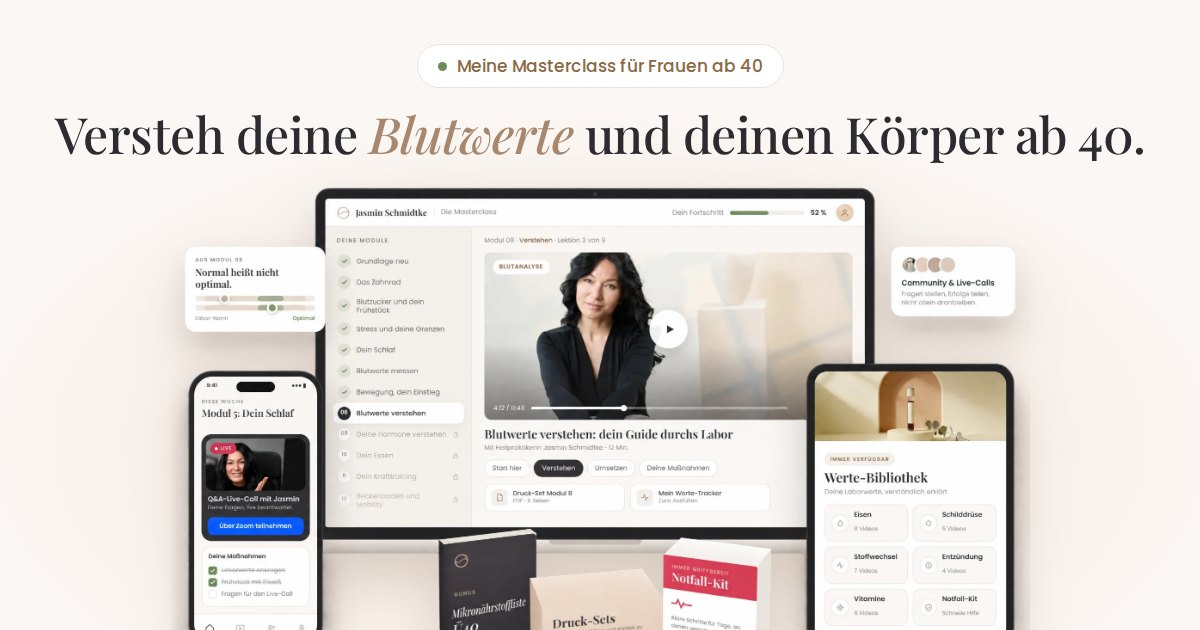
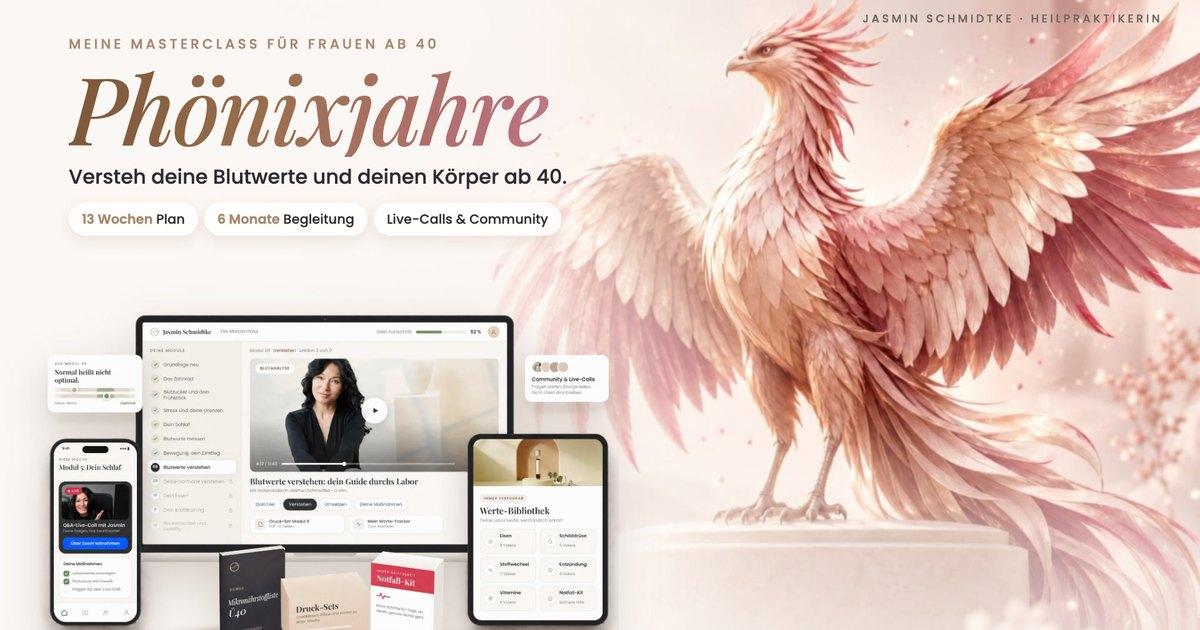
Add files via upload

diff --git a/masterclass.html b/masterclass.html
@@ -15,8 +15,8 @@
 
   <meta charset="UTF-8" />
   <meta name="viewport" content="width=device-width, initial-scale=1.0" />
-  <title>Meine Masterclass für Frauen ab 40 | Jasmin Schmidtke</title>
-  <meta name="description" content="Die Masterclass von Heilpraktikerin Jasmin Schmidtke: Versteh deine Blutwerte und deinen Körper ab 40. Mit der Zahnrad-Methode, 13 Wochen Plan und 6 Monaten Begleitung. Frühbucher-Preis 397 € bis Freitag, 23. Oktober." />
+  <title>Phönixjahre: Meine Masterclass für Frauen ab 40 | Jasmin Schmidtke</title>
+  <meta name="description" content="Phönixjahre, die Masterclass von Heilpraktikerin Jasmin Schmidtke: Versteh deine Blutwerte und deinen Körper ab 40. Mit der Zahnrad-Methode, 13 Wochen Plan und 6 Monaten Begleitung. Frühbucher-Preis 397 € bis Freitag, 23. Oktober." />
   <meta name="robots" content="noindex, follow" />
   <meta name="author" content="Jasmin Schmidtke" />
 
@@ -27,13 +27,13 @@
   <meta name="theme-color" content="#D7354F" />
 
   <meta property="og:type" content="website" />
-  <meta property="og:title" content="Versteh deine Blutwerte und deinen Körper ab 40" />
-  <meta property="og:description" content="Meine Masterclass für Frauen ab 40: die Zahnrad-Methode mit Blutwerte-Kompass, 13 Wochen Plan und 6 Monate Begleitung. Frühbucher-Preis 397 € bis Freitag, 23. Oktober, 23:59 Uhr." />
+  <meta property="og:title" content="Phönixjahre: Versteh deine Blutwerte und deinen Körper ab 40" />
+  <meta property="og:description" content="Phönixjahre, meine Masterclass für Frauen ab 40: die Zahnrad-Methode mit Blutwerte-Kompass, 13 Wochen Plan und 6 Monate Begleitung. Frühbucher-Preis 397 € bis Freitag, 23. Oktober, 23:59 Uhr." />
   <meta property="og:url" content="https://www.jasminschmidtke.de/masterclass" />
   <meta property="og:image" content="https://www.jasminschmidtke.de/og-masterclass.jpg" />
   <meta property="og:image:width" content="1200" />
   <meta property="og:image:height" content="630" />
-  <meta property="og:image:alt" content="Einblick in die Masterclass von Jasmin Schmidtke" />
+  <meta property="og:image:alt" content="Phönixjahre, die Masterclass von Jasmin Schmidtke" />
   <meta name="twitter:card" content="summary_large_image" />
   <meta property="og:locale" content="de_DE" />
 
@@ -52,7 +52,7 @@
   <link rel="preconnect" href="https://fonts.googleapis.com" />
   <link rel="preconnect" href="https://fonts.gstatic.com" crossorigin />
   <link href="https://fonts.googleapis.com/css2?family=Playfair+Display:ital,wght@0,500;0,600;1,500&family=Poppins:wght@300;400;500;600&display=swap" rel="stylesheet" />
-  <link rel="preload" as="image" href="masterclass-mockup-v4.webp" />
+  <link rel="preload" as="image" href="phoenixjahre-1600.webp" imagesrcset="phoenixjahre-960.webp 960w, phoenixjahre-1600.webp 1600w" imagesizes="(max-width: 700px) 92vw, 520px" />
 
   <style>
     :root {
@@ -1164,6 +1164,101 @@
       .of-sum del { font-size: 21px; }
     }
 
+
+    /* ═══════ Hero „Angebot zuerst“ (18.10.2026, nach Vorbild fullstack) ═══════ */
+    .topbar b { font-weight: 700; }
+    .topbar s { opacity: .8; }
+    .ohero { background: linear-gradient(165deg, #2D2B30, #3B3339); color: #fff; padding: 0 0 76px; }
+    .ohero .bg { position: absolute; inset: 0; z-index: 0; }
+    .ohero .bg img { width: 100%; height: 100%; object-fit: cover; opacity: .12; }
+    .ohero .logo { max-width: var(--wrap); margin: 0 auto; justify-content: flex-start; padding: 22px 28px 20px; }
+    .ohero .logo span { color: #fff; }
+    .oh-top { display: grid; grid-template-columns: 1.2fr .8fr; gap: 48px; align-items: center; padding: 14px 0 46px; border-bottom: 1px solid rgba(255,255,255,.1); }
+    body.after .oh-top { grid-template-columns: 1fr; }
+    .oh-pill { display: inline-flex; align-items: center; gap: 10px; font-size: 13px; font-weight: 600; letter-spacing: .13em; text-transform: uppercase; color: var(--sand); margin-bottom: 18px; }
+    .oh-pill i { width: 9px; height: 9px; border-radius: 50%; background: var(--sand); box-shadow: 0 0 0 5px rgba(231,203,180,.18); }
+    .ohero h1 { color: #fff; font-size: clamp(40px, 4.4vw, 62px); line-height: 1.06; letter-spacing: -.015em; margin-bottom: 20px; text-wrap: balance; }
+    .ohero h1 .ac { display: block; color: var(--sand); font-style: italic; font-size: 1.08em; margin-top: 4px; }
+    .oh-sub { font-size: 18px; line-height: 1.6; color: rgba(255,255,255,.82); max-width: 560px; }
+    .oh-sub strong { color: #fff; }
+    .oh-cd { background: rgba(255,255,255,.04); border: 1px solid rgba(231,203,180,.3); border-radius: 22px; padding: 24px 26px 22px; }
+    .oh-lbl { display: block; font-size: 13px; font-weight: 600; letter-spacing: .13em; text-transform: uppercase; color: var(--sand); margin-bottom: 14px; }
+    .oh-cd .cd.flipcd { display: grid; grid-template-columns: repeat(4, 1fr); gap: 10px; margin: 0; }
+    .oh-cd .flip { height: 66px; font-size: 36px; line-height: 66px; box-shadow: 0 10px 22px rgba(0,0,0,.3); }
+    .oh-cd .flip i { height: 66px; }
+    .oh-cd .flip .f-top, .oh-cd .flip .f-ftop { background: #4C464C; }
+    .oh-cd .flip .f-bot, .oh-cd .flip .f-fbot { background: #403B41; }
+    .oh-cd .flipcd small { color: rgba(255,255,255,.6); }
+    .oh-cd p { font-size: 15px; color: rgba(255,255,255,.8); margin-top: 16px; }
+    .oh-cd p strong { color: var(--sand); }
+    .oh-grid { display: grid; grid-template-columns: 1.08fr .92fr; gap: 28px; margin-top: 44px; align-items: start; }
+    .oh-prod { background: rgba(255,255,255,.04); border: 1px solid rgba(255,255,255,.1); border-radius: 24px; padding: 30px 30px 28px; }
+    .oh-t1 { display: block; font-family: 'Playfair Display', Georgia, serif; font-style: italic; font-weight: 500; font-size: 30px; line-height: 1.2; color: var(--sand); margin-bottom: 8px; }
+    .oh-t2 { font-family: 'Playfair Display', Georgia, serif; font-weight: 500; font-size: 27px; line-height: 1.28; color: #fff; text-wrap: balance; }
+    .oh-vis { position: relative; margin-top: 24px; border-radius: 18px; background: radial-gradient(ellipse 72% 62% at 50% 55%, #F2E2D4, #F8F2EC 72%); padding: 34px 18px 48px; }
+    .oh-vis img { width: 100%; height: auto; filter: drop-shadow(0 20px 24px rgba(80,55,40,.16)); }
+    .oh-vis .lv-tag { left: 14px; bottom: 12px; font-size: 11.5px; color: var(--muted); font-weight: 500; }
+    .oh-save { position: absolute; top: -14px; right: 18px; background: var(--sand); color: var(--dark); font-family: 'Playfair Display', Georgia, serif; font-weight: 600; font-size: 21px; line-height: 1; border-radius: 40px; padding: 11px 18px; box-shadow: 0 12px 26px rgba(0,0,0,.25); transform: rotate(-3deg); }
+    .oh-price { position: relative; background: var(--paper); color: var(--ink); border-radius: 24px; padding: 40px 30px 26px; box-shadow: 0 0 0 6px rgba(231,203,180,.2), 0 30px 70px rgba(0,0,0,.35); }
+    .op-tab { position: absolute; top: 0; right: 22px; transform: translateY(-50%); background: var(--sand); color: var(--dark); font-size: 12.5px; font-weight: 600; border-radius: 10px; padding: 7px 14px; white-space: nowrap; }
+    .op-h { font-size: 30px; line-height: 1.15; margin-bottom: 4px; }
+    .op-sub { font-size: 16px; color: var(--muted); }
+    .op-row { display: flex; align-items: center; flex-wrap: wrap; gap: 8px 14px; margin: 16px 0 14px; }
+    .op-now { font-family: 'Playfair Display', Georgia, serif; font-style: italic; font-weight: 500; font-size: 58px; line-height: 1; color: var(--red); white-space: nowrap; font-variant-numeric: lining-nums; }
+    .op-now i { font-size: .42em; margin-right: 6px; }
+    body.after .op-now { color: var(--ink); font-style: normal; }
+    .op-was { display: flex; flex-direction: column; align-items: flex-start; gap: 7px; }
+    .op-was > span { font-size: 18px; color: var(--body); }
+    .op-was del { text-decoration-color: var(--red); text-decoration-thickness: 2px; }
+    .op-was b { background: var(--red); color: #fff; font-size: 12.5px; font-weight: 600; border-radius: 30px; padding: 6px 13px; white-space: nowrap; }
+    .op-for { font-size: 15px; line-height: 1.55; color: var(--body); }
+    .op-for strong { display: block; color: var(--ink); }
+    .op-sum del { font-weight: 600; color: var(--ink); text-decoration-color: var(--red); }
+    .op-chips { display: flex; flex-wrap: wrap; gap: 8px; margin: 16px 0 16px; }
+    .op-chips li { display: inline-flex; align-items: center; gap: 7px; font-size: 13.5px; font-weight: 500; color: var(--ink); background: var(--cream); border: 1px solid var(--line); border-radius: 30px; padding: 6px 13px; }
+    .op-chips svg { width: 15px; height: 15px; color: var(--accent-deep); flex: none; }
+    .op-chips .zoom-ic { width: 15px; height: 15px; margin: 0; vertical-align: 0; }
+    .op-until { text-align: center; border: 1px solid rgba(215,53,79,.3); background: rgba(215,53,79,.05); border-radius: 14px; padding: 12px 14px; margin-bottom: 18px; }
+    .op-until b { display: block; font-size: 16px; font-weight: 600; color: var(--red); }
+    .op-until span { display: block; font-size: 14px; color: var(--body); margin-top: 2px; }
+    .oh-price .btn { width: 100%; justify-content: center; text-align: center; padding: 15px 14px; }
+    .oh-price .btn .t { align-items: center; }
+    .op-trust { text-align: center; font-size: 13px; color: var(--muted); margin-top: 12px; }
+    @media (max-width: 1024px) {
+      .oh-top { grid-template-columns: 1fr; gap: 28px; }
+      .oh-cd { max-width: 520px; }
+    }
+    @media (max-width: 900px) {
+      .oh-grid { grid-template-columns: 1fr; max-width: 560px; margin: 36px auto 0; gap: 34px; }
+      .oh-top { max-width: 560px; margin: 0 auto; }
+    }
+    @media (max-width: 600px) {
+      .ohero { padding-bottom: 52px; }
+      .ohero .logo { padding: 18px 20px 16px; }
+      .ohero h1 { font-size: clamp(32px, 9.4vw, 40px); }
+      .oh-sub { font-size: 16.5px; }
+      .oh-top { padding-bottom: 34px; }
+      .oh-cd { padding: 18px 16px 16px; }
+      .oh-cd .cd.flipcd { gap: 7px; }
+      .oh-cd .flip { height: 56px; font-size: 30px; line-height: 56px; }
+      .oh-cd .flip i { height: 56px; }
+      .oh-prod { padding: 22px 16px 18px; }
+      .oh-t1 { font-size: 25px; }
+      .oh-t2 { font-size: 22px; }
+      .oh-vis { padding: 26px 10px 42px; }
+      .oh-save { font-size: 17px; padding: 9px 14px; right: 12px; }
+      .oh-price { padding: 36px 18px 22px; }
+      .op-h { font-size: 26px; }
+      .op-now { font-size: 58px; }
+      .op-tab { right: 14px; font-size: 12px; }
+      .op-chips li { font-size: 13px; }
+    }
+    @media (max-width: 380px) {
+      .op-now { font-size: 50px; }
+      .op-was b { font-size: 12.5px; }
+      .oh-price { padding-left: 14px; padding-right: 14px; }
+    }
+
     /* Hinweis, solange die CopeCart-Links fehlen (verschwindet automatisch) */
     .dev-note { position: fixed; z-index: 99; left: 12px; top: 12px; max-width: 300px; background: #FFF3CD; color: #5C4300; border: 1px solid #E5C766; border-radius: 12px; padding: 9px 13px; font-size: 12.5px; line-height: 1.45; box-shadow: 0 10px 24px rgba(0,0,0,.12); }
 
@@ -1206,57 +1301,86 @@
       .pricebox .btn .t small { font-size: 11px; }
       .price { font-size: 58px; }
     }
+
+    /* ═══ Phönixjahre (Name + Produktbild, 20.10.) ═══ */
+    .ohero h1 .ph-name { display: block; font-style: italic; font-size: 1.5em; line-height: 1.02; letter-spacing: -.01em; padding: 0 .08em .1em 0; margin-bottom: 4px; color: #EBC9AE; background: linear-gradient(95deg, #EDD0B6 0%, #E8B9A2 48%, #E59AAA 100%); -webkit-background-clip: text; background-clip: text; -webkit-text-fill-color: transparent; }
+    .ohero h1 .ph-sub { display: block; font-size: .64em; line-height: 1.18; color: #fff; }
+    .ohero h1 .ac { font-size: .64em; margin-top: 6px; }
+    .oh-vis.ph-vis { padding: 0; background: none; }
+    .ph-vis img { display: block; width: 100%; height: auto; border-radius: 16px; filter: none; box-shadow: 0 22px 44px rgba(0,0,0,.32), 0 0 0 1px rgba(255,255,255,.08); }
+    .ph-vis .oh-save { top: auto; bottom: -16px; right: 18px; }
+    .oh-price .op-h { font-style: italic; font-size: 40px; line-height: 1.08; padding-bottom: 2px; color: #8E5B3F; background: linear-gradient(95deg, #8E5B3F 0%, #B0705E 50%, #C7697D 100%); -webkit-background-clip: text; background-clip: text; -webkit-text-fill-color: transparent; }
+    .pb-name .pb-ph { display: block; font-style: italic; font-weight: 500; font-size: 1.55em; line-height: 1.1; margin-bottom: 2px; color: #EBC9AE; background: linear-gradient(95deg, #EDD0B6 0%, #E8B9A2 48%, #E59AAA 100%); -webkit-background-clip: text; background-clip: text; -webkit-text-fill-color: transparent; }
+    .pricebox.light .pb-name .pb-ph { color: #8E5B3F; background-image: linear-gradient(95deg, #8E5B3F 0%, #B0705E 50%, #C7697D 100%); }
+    @media (max-width: 700px) {
+      .ohero h1 .ph-name { font-size: 1.42em; }
+      .ph-vis img { border-radius: 12px; }
+      .ph-vis .oh-save { bottom: -14px; right: 10px; }
+      .oh-price .op-h { font-size: 34px; }
+    }
   </style>
 </head>
 <body>
 
-  <a href="#angebot" class="topbar"><span class="live-dot" aria-hidden="true"></span><span class="eb-only"><span class="lg">Frühbucher-Preis 397&nbsp;€ nur bis Freitag, 23.&nbsp;Oktober, 23:59&nbsp;Uhr</span><span class="sm">Frühbucher-Preis 397&nbsp;€ bis Fr., 23:59&nbsp;Uhr</span><span class="tb-cd" hidden></span></span><span class="after-only"><span class="lg">Meine Masterclass für Frauen ab&nbsp;40 · 13&nbsp;Wochen Plan, 6&nbsp;Monate Begleitung</span><span class="sm">Meine Masterclass für Frauen ab&nbsp;40</span></span><span class="go">Platz sichern →</span></a>
+  <a href="#angebot" class="topbar js-buy"><span class="live-dot" aria-hidden="true"></span><span class="eb-only"><span class="lg">Frühbucher-Angebot: <b>397&nbsp;€</b> statt <s>997&nbsp;€</s> · nur bis Freitag, 23:59&nbsp;Uhr</span><span class="sm"><b>397&nbsp;€</b> statt <s>997&nbsp;€</s> · bis Fr., 23:59&nbsp;Uhr</span><span class="tb-cd" hidden></span></span><span class="after-only"><span class="lg"><b>Phönixjahre</b> · Meine Masterclass für Frauen ab&nbsp;40 · 13&nbsp;Wochen Plan, 6&nbsp;Monate Begleitung</span><span class="sm"><b>Phönixjahre</b> · Masterclass für Frauen ab&nbsp;40</span></span><span class="go">Jetzt sichern →</span></a>
 
   <main>
 
-    <!-- ═══════ HERO ═══════ -->
-    <section class="hero" aria-label="Meine Masterclass für Frauen ab 40">
-      <div class="hero-bg" aria-hidden="true"><img decoding="async" src="warteliste-bg-poster.jpg" width="1280" height="720" alt="" /></div>
+    <!-- ═══════ HERO: Angebot zuerst (wie fullstack) ═══════ -->
+    <section class="hero ohero" aria-label="Phönixjahre, meine Masterclass für Frauen ab 40">
+      <div class="bg" aria-hidden="true"><img src="warteliste-bg-poster.jpg" width="1280" height="720" alt="" decoding="async" /></div>
 
       <header class="logo" aria-label="Jasmin Schmidtke">
         <svg viewBox="0 0 200 200" xmlns="http://www.w3.org/2000/svg" aria-hidden="true">
-          <circle cx="100" cy="100" r="82" fill="none" stroke="#BFA492" stroke-width="11"/>
-          <path d="M 18,100 C 45,118 65,118 100,95 C 135,72 155,72 182,100" fill="none" stroke="#BFA492" stroke-width="7" stroke-linecap="round"/>
+          <circle cx="100" cy="100" r="82" fill="none" stroke="#E7CBB4" stroke-width="11"/>
+          <path d="M 18,100 C 45,118 65,118 100,95 C 135,72 155,72 182,100" fill="none" stroke="#E7CBB4" stroke-width="7" stroke-linecap="round"/>
         </svg>
         <span><span>Jasmin</span><span>Schmidtke</span></span>
       </header>
 
       <div class="wrap">
-        <div class="hero-txt">
-          <span class="pill"><span class="dot"></span>Meine Masterclass für Frauen ab&nbsp;40</span>
-          <h1>Versteh deine <span class="ac">Blutwerte</span><br class="br-d" /> und deinen Körper ab&nbsp;40.<span class="h1-a">Mit einem Plan, der in deinen <b>Alltag</b>&nbsp;passt.</span></h1>
-          <p class="lead">Mit meiner <strong>Zahnrad&#8209;Methode</strong> gehst du 13&nbsp;Wochen lang jede Woche einen Schritt. <strong>Und 6&nbsp;Monate bin ich an deiner&nbsp;Seite.</strong></p>
-          <ul class="when" aria-label="Das Wichtigste auf einen Blick">
-            <li><svg viewBox="0 0 24 24" fill="none" stroke="currentColor" stroke-width="2" stroke-linecap="round" stroke-linejoin="round" aria-hidden="true"><rect x="2.5" y="4" width="19" height="13" rx="2"/><path d="M8 21h8M12 17v4"/><path d="m10.5 8.5 4 2-4 2z"/></svg><span><b>2&nbsp;Jahre</b> Zugang, in deinem Tempo</span></li>
-            <li><svg class="zoom-ic" viewBox="0 0 24 24" aria-hidden="true"><rect width="24" height="24" rx="6" fill="#0B5CFF"/><path d="M5.2 9.1a1.6 1.6 0 0 1 1.6-1.6h6.3a1.8 1.8 0 0 1 1.8 1.8v5.6a1.6 1.6 0 0 1-1.6 1.6H7a1.8 1.8 0 0 1-1.8-1.8z" fill="#fff"/><path d="M15.6 10.7l3.2-2.2v7l-3.2-2.2z" fill="#fff"/></svg><span><b>Live-Calls</b> alle 2&nbsp;Wochen</span></li>
-            <li><svg viewBox="0 0 24 24" fill="none" stroke="currentColor" stroke-width="2" stroke-linecap="round" stroke-linejoin="round" aria-hidden="true"><rect x="3" y="4.5" width="18" height="16.5" rx="2.5"/><path d="M16 2.5v4M8 2.5v4M3 9.5h18"/></svg><span><b>6&nbsp;Monate</b> an deiner Seite</span></li>
-          </ul>
-          <a class="btn pulse js-buy" href="#angebot"><span class="t"><b>Jetzt meinen Platz sichern</b><small class="eb-only"><s>997&nbsp;€</s> 397&nbsp;€ · nur bis Fr., 23:59&nbsp;Uhr</small><small class="after-only">997&nbsp;€ · sichere Zahlung über CopeCart</small></span><span class="arr"><svg viewBox="0 0 24 24" fill="none" stroke="currentColor" stroke-width="2.4" stroke-linecap="round" stroke-linejoin="round"><path d="M5 12h14M13 6l6 6-6 6"/></svg></span></a>
-          <p class="micro"><span class="eb-only">Ab Samstag kostet die Masterclass 997&nbsp;€.<br /></span><svg class="lk-ic" viewBox="0 0 24 24" fill="none" stroke="currentColor" stroke-width="2" stroke-linecap="round" stroke-linejoin="round" aria-hidden="true"><rect x="4" y="10.5" width="16" height="11" rx="2.5"/><path d="M8 10.5V7a4 4 0 0 1 8 0v3.5"/></svg>Sichere Zahlung über CopeCart<span class="raten-txt" hidden></span></p>
+        <div class="oh-top">
+          <div>
+            <span class="oh-pill"><i aria-hidden="true"></i><span class="eb-only">Einmaliges Frühbucher-Angebot</span><span class="after-only">Für Frauen ab&nbsp;40</span></span>
+            <h1><span class="ph-name">Phönixjahre</span> <span class="ph-sub">Meine Masterclass für Frauen ab&nbsp;40</span> <span class="ac eb-only">Exklusiv zum&nbsp;Start</span><span class="ac after-only">Dein Plan für die Zeit ab&nbsp;40</span></h1>
+            <p class="oh-sub eb-only"><strong>60&nbsp;% Frühbucher-Rabatt</strong> und 3 exklusive Start-Boni. Dieses Angebot gibt es nur jetzt zum&nbsp;Start.</p>
+            <p class="oh-sub after-only">13&nbsp;Wochen Plan, 6&nbsp;Monate Begleitung und 2&nbsp;Jahre Zugang zu allen&nbsp;Inhalten.</p>
+          </div>
+          <div class="oh-cd eb-only">
+            <span class="oh-lbl">Das Angebot endet in</span>
+            <div class="cd flipcd" data-cd aria-label="Zeit bis zum Ende des Frühbucher-Angebots"><div class="fu"><div class="flip" data-u="d"></div><small>Tage</small></div><div class="fu"><div class="flip" data-u="h"></div><small>Std.</small></div><div class="fu"><div class="flip" data-u="m"></div><small>Min.</small></div><div class="fu"><div class="flip" data-u="s"></div><small>Sek.</small></div></div>
+            <p>Danach kostet die Masterclass <strong>997&nbsp;€</strong>, ohne&nbsp;Start-Boni.</p>
+          </div>
         </div>
 
-        <div class="wb mcard rv">
-          <div class="mcard-vis">
-            <img decoding="async" src="masterclass-mockup-v4.webp" width="2000" height="1183" alt="Einblick in die Masterclass auf Laptop, Tablet und Handy" fetchpriority="high" />
-            <span class="lv-tag">Einblick in den Mitgliederbereich</span>
+        <div class="oh-grid">
+          <div class="oh-prod">
+            <span class="oh-t1">Mit der Zahnrad-Methode:</span>
+            <p class="oh-t2">Versteh deine Blutwerte und deinen Körper ab&nbsp;40. Mit einem Plan, der in deinen Alltag&nbsp;passt.</p>
+            <div class="oh-vis ph-vis">
+              <img src="phoenixjahre-1600.webp" srcset="phoenixjahre-960.webp 960w, phoenixjahre-1600.webp 1600w" sizes="(max-width: 700px) 92vw, 520px" width="1600" height="900" alt="Phönixjahre, die Masterclass von Jasmin Schmidtke: Mitgliederbereich auf Laptop, Tablet und Handy mit 13 Wochen Plan, 6 Monaten Begleitung, Live-Calls und Community" fetchpriority="high" decoding="async" />
+              <span class="oh-save eb-only">Du sparst 60&nbsp;%</span>
+            </div>
           </div>
-          <div class="wb-body">
-            <span class="excl eb-only"><svg viewBox="0 0 24 24" fill="currentColor"><circle cx="12" cy="12" r="6"/></svg>Frühbucher-Preis endet in</span>
-            <div class="cd flipcd eb-only" data-cd aria-label="Zeit bis zum Ende des Frühbucher-Preises"><div class="fu"><div class="flip" data-u="d"></div><small>Tage</small></div><div class="fu"><div class="flip" data-u="h"></div><small>Std.</small></div><div class="fu"><div class="flip" data-u="m"></div><small>Min.</small></div><div class="fu"><div class="flip" data-u="s"></div><small>Sek.</small></div></div>
-            <h2 class="wb-h">Das bekommst du in meiner&nbsp;Masterclass</h2>
-            <ul class="checks">
-              <li><span class="pdf-slot"><svg class="pdf-ic" viewBox="0 0 20 24" aria-hidden="true"><path d="M3.5 1h9.5l6 6v14a2 2 0 0 1-2 2H3.5a2 2 0 0 1-2-2V3a2 2 0 0 1 2-2z" fill="#fff" stroke="#D7354F" stroke-width="1.6"/><path d="M13 1v6h6" fill="none" stroke="#D7354F" stroke-width="1.6"/><rect x="0" y="11.5" width="16.5" height="8" rx="1.6" fill="#D7354F"/><text x="8.25" y="17.7" text-anchor="middle" font-size="6.2" font-weight="700" fill="#fff" font-family="Arial, Helvetica, sans-serif">PDF</text></svg></span><span><strong>Mein Blutwerte-Kompass:</strong> welche Werte ab&nbsp;40 oft aufschlussreich&nbsp;sind</span></li>
-              <li><span class="ck"><svg viewBox="0 0 24 24" fill="none" stroke="currentColor" stroke-width="3" stroke-linecap="round" stroke-linejoin="round"><polyline points="20 6 9 17 4 12"/></svg></span><span><strong>Dein Plan für 13&nbsp;Wochen</strong>, jede Woche ein&nbsp;Schritt</span></li>
-              <li><span class="pdf-slot"><svg class="zoom-ic" viewBox="0 0 24 24" aria-hidden="true"><rect width="24" height="24" rx="6" fill="#0B5CFF"/><path d="M5.2 9.1a1.6 1.6 0 0 1 1.6-1.6h6.3a1.8 1.8 0 0 1 1.8 1.8v5.6a1.6 1.6 0 0 1-1.6 1.6H7a1.8 1.8 0 0 1-1.8-1.8z" fill="#fff"/><path d="M15.6 10.7l3.2-2.2v7l-3.2-2.2z" fill="#fff"/></svg></span><span><strong>Live-Calls mit mir</strong> alle 2&nbsp;Wochen auf&nbsp;Zoom</span></li>
-              <li><span class="ck"><svg viewBox="0 0 24 24" fill="none" stroke="currentColor" stroke-width="3" stroke-linecap="round" stroke-linejoin="round"><polyline points="20 6 9 17 4 12"/></svg></span><span><strong>6&nbsp;Monate Begleitung</strong> und unsere Community</span></li>
-              <li><span class="ck"><svg viewBox="0 0 24 24" fill="none" stroke="currentColor" stroke-width="3" stroke-linecap="round" stroke-linejoin="round"><polyline points="20 6 9 17 4 12"/></svg></span><span><strong>2&nbsp;Jahre Zugang</strong>, alle Updates&nbsp;kostenlos</span></li>
-              <li class="qa eb-only"><span class="qa-ic"><svg class="gi" viewBox="0 0 24 24" fill="none" stroke="currentColor" stroke-width="1.9" stroke-linecap="round" stroke-linejoin="round" aria-hidden="true"><rect x="3" y="8" width="18" height="4" rx="1"/><path d="M12 8v13M19 12v9H5v-9"/><path d="M7.5 8a2.5 2.5 0 0 1 0-5C11 3 12 8 12 8s1-5 4.5-5a2.5 2.5 0 0 1 0 5"/></svg></span><span><strong>Dazu 3 Start-Boni</strong>, nur bis Freitag, 23:59&nbsp;Uhr.</span></li>
+
+          <div class="oh-price">
+            <span class="op-tab eb-only">Einmaliges Frühbucher-Angebot</span>
+            <h2 class="op-h">Phönixjahre</h2>
+            <p class="op-sub eb-only">Meine Masterclass zum Frühbucher-Preis + 3 exklusive Start-Boni</p>
+            <p class="op-sub after-only">Meine Masterclass: 13&nbsp;Wochen Plan, 6&nbsp;Monate Begleitung, 2&nbsp;Jahre&nbsp;Zugang</p>
+            <div class="op-row">
+              <span class="op-now"><i class="eb-only">nur</i><span class="eb-only">397&nbsp;€</span><span class="after-only">997&nbsp;€</span></span>
+              <span class="op-was eb-only"><span>statt <del>997&nbsp;€</del></span><b>60&nbsp;% · Du sparst 600&nbsp;€</b></span>
+            </div>
+            <p class="op-for"><strong>Für Frauen ab&nbsp;40, mitten in oder nach den Wechseljahren.</strong> <span class="op-sum">Gesamtwert aller Inhalte: <del class="js-sum"></del></span></p>
+            <ul class="op-chips">
+              <li><svg viewBox="0 0 24 24" fill="none" stroke="currentColor" stroke-width="2" stroke-linecap="round" stroke-linejoin="round" aria-hidden="true"><rect x="3" y="4.5" width="18" height="16.5" rx="2.5"/><path d="M16 2.5v4M8 2.5v4M3 9.5h18"/></svg>2&nbsp;Jahre Zugang</li>
+              <li><svg viewBox="0 0 24 24" fill="none" stroke="currentColor" stroke-width="2" stroke-linecap="round" stroke-linejoin="round" aria-hidden="true"><path d="M21 12a9 9 0 1 1-3-6.7L21 8"/><path d="M21 3v5h-5"/></svg>Updates inklusive</li>
+              <li><svg class="zoom-ic" viewBox="0 0 24 24" aria-hidden="true"><rect width="24" height="24" rx="6" fill="#0B5CFF"/><path d="M5.2 9.1a1.6 1.6 0 0 1 1.6-1.6h6.3a1.8 1.8 0 0 1 1.8 1.8v5.6a1.6 1.6 0 0 1-1.6 1.6H7a1.8 1.8 0 0 1-1.8-1.8z" fill="#fff"/><path d="M15.6 10.7l3.2-2.2v7l-3.2-2.2z" fill="#fff"/></svg>Live-Calls 6&nbsp;Monate</li>
             </ul>
+            <div class="op-until eb-only"><b>Nur bis Freitag, 23.10., 23:59&nbsp;Uhr</b><span>Danach kostet die Masterclass 997&nbsp;€, ohne&nbsp;Start-Boni.</span></div>
+            <a class="btn pulse js-buy" href="#angebot"><span class="t"><b>Jetzt meinen Platz sichern</b><small class="eb-only"><s>997&nbsp;€</s> 397&nbsp;€ · nur bis Fr., 23:59&nbsp;Uhr</small><small class="after-only">997&nbsp;€ · sichere Zahlung über CopeCart</small></span><span class="arr"><svg viewBox="0 0 24 24" fill="none" stroke="currentColor" stroke-width="2.4" stroke-linecap="round" stroke-linejoin="round"><path d="M5 12h14M13 6l6 6-6 6"/></svg></span></a>
+            <p class="op-trust"><svg class="lk-ic" viewBox="0 0 24 24" fill="none" stroke="currentColor" stroke-width="2" stroke-linecap="round" stroke-linejoin="round" aria-hidden="true"><rect x="4" y="10.5" width="16" height="11" rx="2.5"/><path d="M8 10.5V7a4 4 0 0 1 8 0v3.5"/></svg>Sichere Zahlung über CopeCart<span class="raten-txt" hidden></span></p>
           </div>
         </div>
       </div>
@@ -1624,7 +1748,7 @@
     <section class="sec alt" id="angebot" aria-label="Dein Angebot">
       <div class="wrap">
         <div class="head rv">
-          <span class="pill"><span class="dot"></span>Dein Platz in der Masterclass</span>
+          <span class="pill"><span class="dot"></span>Dein Platz in Phönixjahre</span>
           <h2 class="eb-only">Starte jetzt zum <span class="ac">Frühbucher-Preis</span>.</h2>
           <h2 class="after-only">Starte jetzt in deine <span class="ac">Masterclass</span>.</h2>
         </div>
@@ -1654,8 +1778,8 @@
           </div>
           <div class="pricebox rv">
             <span class="pb-badge eb-only">Frühbucher-Preis</span>
-            <span class="pb-badge dark after-only">Meine Masterclass</span>
-            <span class="pb-name">Meine Masterclass für Frauen ab&nbsp;40</span>
+            <span class="pb-badge dark after-only">Phönixjahre</span>
+            <span class="pb-name"><b class="pb-ph">Phönixjahre</b> Meine Masterclass für Frauen ab&nbsp;40</span>
             <span class="pb-until eb-only">bis Freitag, 23.&nbsp;Oktober, 23:59&nbsp;Uhr</span>
             <span class="pb-until after-only">13&nbsp;Wochen Plan, 6&nbsp;Monate Begleitung</span>
             <ul class="pb-vals">
@@ -1718,7 +1842,7 @@
           <span class="pill">Persönlich von mir</span>
           <h2>Ich begleite dich durch die <span class="ac">Masterclass</span>.</h2>
           <p>Ich bin Heilpraktikerin und Mutter von vier Kindern. Ich weiß, wie es ist, wenn der Alltag alles fordert und die eigene Energie hinten&nbsp;runterfällt.</p>
-          <p>Ich schaue nicht auf einzelne Beschwerden, sondern dahin, wo bei Frauen ab&nbsp;40 alles zusammenläuft: <strong>Stoffwechsel und Hormone</strong>. In meiner Masterclass habe ich dieses Wissen in einen Plan gepackt, der in deinen Alltag passt: <strong>die Zahnrad-Methode mit dem Blutwerte-Kompass</strong>.</p>
+          <p>Ich schaue nicht auf einzelne Beschwerden, sondern dahin, wo bei Frauen ab&nbsp;40 alles zusammenläuft: <strong>Stoffwechsel und Hormone</strong>. In meiner Masterclass <strong>Phönixjahre</strong> habe ich dieses Wissen in einen Plan gepackt, der in deinen Alltag passt: <strong>die Zahnrad-Methode mit dem Blutwerte-Kompass</strong>.</p>
           <blockquote>„Du bist nicht zu alt, zu undiszipliniert oder einfach kaputt. Dein Körper folgt einer Logik. Und die kannst du verstehen.“</blockquote>
           <p class="sig">Jasmin Schmidtke, Heilpraktikerin</p>
           <a class="btn pulse" href="#angebot"><span class="t"><b>Jetzt meinen Platz sichern</b><small class="eb-only"><s>997&nbsp;€</s> 397&nbsp;€ · nur bis Fr., 23:59&nbsp;Uhr</small><small class="after-only">997&nbsp;€ · sichere Zahlung über CopeCart</small></span><span class="arr"><svg viewBox="0 0 24 24" fill="none" stroke="currentColor" stroke-width="2.4" stroke-linecap="round" stroke-linejoin="round"><path d="M5 12h14M13 6l6 6-6 6"/></svg></span></a>
@@ -1820,8 +1944,8 @@
         </div>
         <div class="pricebox light rv">
             <span class="pb-badge eb-only">Frühbucher-Preis</span>
-            <span class="pb-badge dark after-only">Meine Masterclass</span>
-            <span class="pb-name">Meine Masterclass für Frauen ab&nbsp;40</span>
+            <span class="pb-badge dark after-only">Phönixjahre</span>
+            <span class="pb-name"><b class="pb-ph">Phönixjahre</b> Meine Masterclass für Frauen ab&nbsp;40</span>
             <span class="pb-until eb-only">bis Freitag, 23.&nbsp;Oktober, 23:59&nbsp;Uhr</span>
             <span class="pb-until after-only">13&nbsp;Wochen Plan, 6&nbsp;Monate Begleitung</span>
             <ul class="pb-vals">
@@ -1854,7 +1978,7 @@
 
   <!-- Schwebende Leiste (Desktop) -->
   <div class="float" id="floatBar" aria-hidden="true">
-    <p class="txt"><span class="eb-only"><b>Frühbucher-Preis 397&nbsp;€</b> · endet in <span class="js-cdtxt">…</span></span><span class="after-only"><b>Meine Masterclass</b> · 13&nbsp;Wochen Plan, 6&nbsp;Monate Begleitung</span></p>
+    <p class="txt"><span class="eb-only"><b>Frühbucher-Preis 397&nbsp;€</b> · endet in <span class="js-cdtxt">…</span></span><span class="after-only"><b>Phönixjahre</b> · 13&nbsp;Wochen Plan, 6&nbsp;Monate Begleitung</span></p>
     <a class="btn pulse js-buy" href="#angebot"><span class="t"><b>Jetzt meinen Platz sichern</b><small class="eb-only"><s>997&nbsp;€</s> 397&nbsp;€ · nur bis Fr., 23:59&nbsp;Uhr</small><small class="after-only">997&nbsp;€ · sichere Zahlung über CopeCart</small></span><span class="arr"><svg viewBox="0 0 24 24" fill="none" stroke="currentColor" stroke-width="2.4" stroke-linecap="round" stroke-linejoin="round"><path d="M5 12h14M13 6l6 6-6 6"/></svg></span></a>
   </div>
 
@@ -1872,8 +1996,8 @@
        ═══════════════════════════════════════════════════════════════ */
     var CONFIG = {
       /* CopeCart-Bestelllinks (komplette Adresse mit https://) */
-      checkoutFruehbucher: '',   /* 397 €, gilt bis Freitag, 23.10.2026, 23:59 Uhr */
-      checkoutNormal: '',        /* 997 €, ab Samstag, 24.10.2026 */
+      checkoutFruehbucher: 'https://copecart.com/products/cc0608b6/checkout',   /* Phönixjahre 397 €, gilt bis Freitag, 23.10.2026, 23:59 Uhr */
+      checkoutNormal: 'https://copecart.com/products/cc0608b6/checkout',        /* ab Samstag, 24.10.2026: Preis in CopeCart auf 997 € stellen ODER hier den neuen 997-€-Link eintragen */
 
       /* Ratenzahlung, z. B. 'Oder in 3 Raten zu je 139 €' (leer lassen = wird nicht angezeigt) */
       raten: '',
@@ -2002,7 +2126,7 @@
           var offen = [];
           if (!(CONFIG.checkoutFruehbucher && CONFIG.checkoutNormal)) { offen.push('CopeCart-Links eintragen'); }
           if (!CONFIG.werteGeprueft) { offen.push('Werte in der Wertliste prüfen'); }
-          devNote.innerHTML = '<b>Vorschau, noch offen:</b> ' + offen.join(', ') + '. Beides oben im Skript bei <code>CONFIG</code>, dann verschwindet dieser Hinweis.';
+          devNote.innerHTML = '<b>Vorschau, noch offen:</b> ' + offen.join(', ') + '. Oben im Skript bei <code>CONFIG</code> ändern (werteGeprueft: true), dann verschwindet dieser Hinweis.';
           devNote.hidden = !offen.length;
         }
       }
